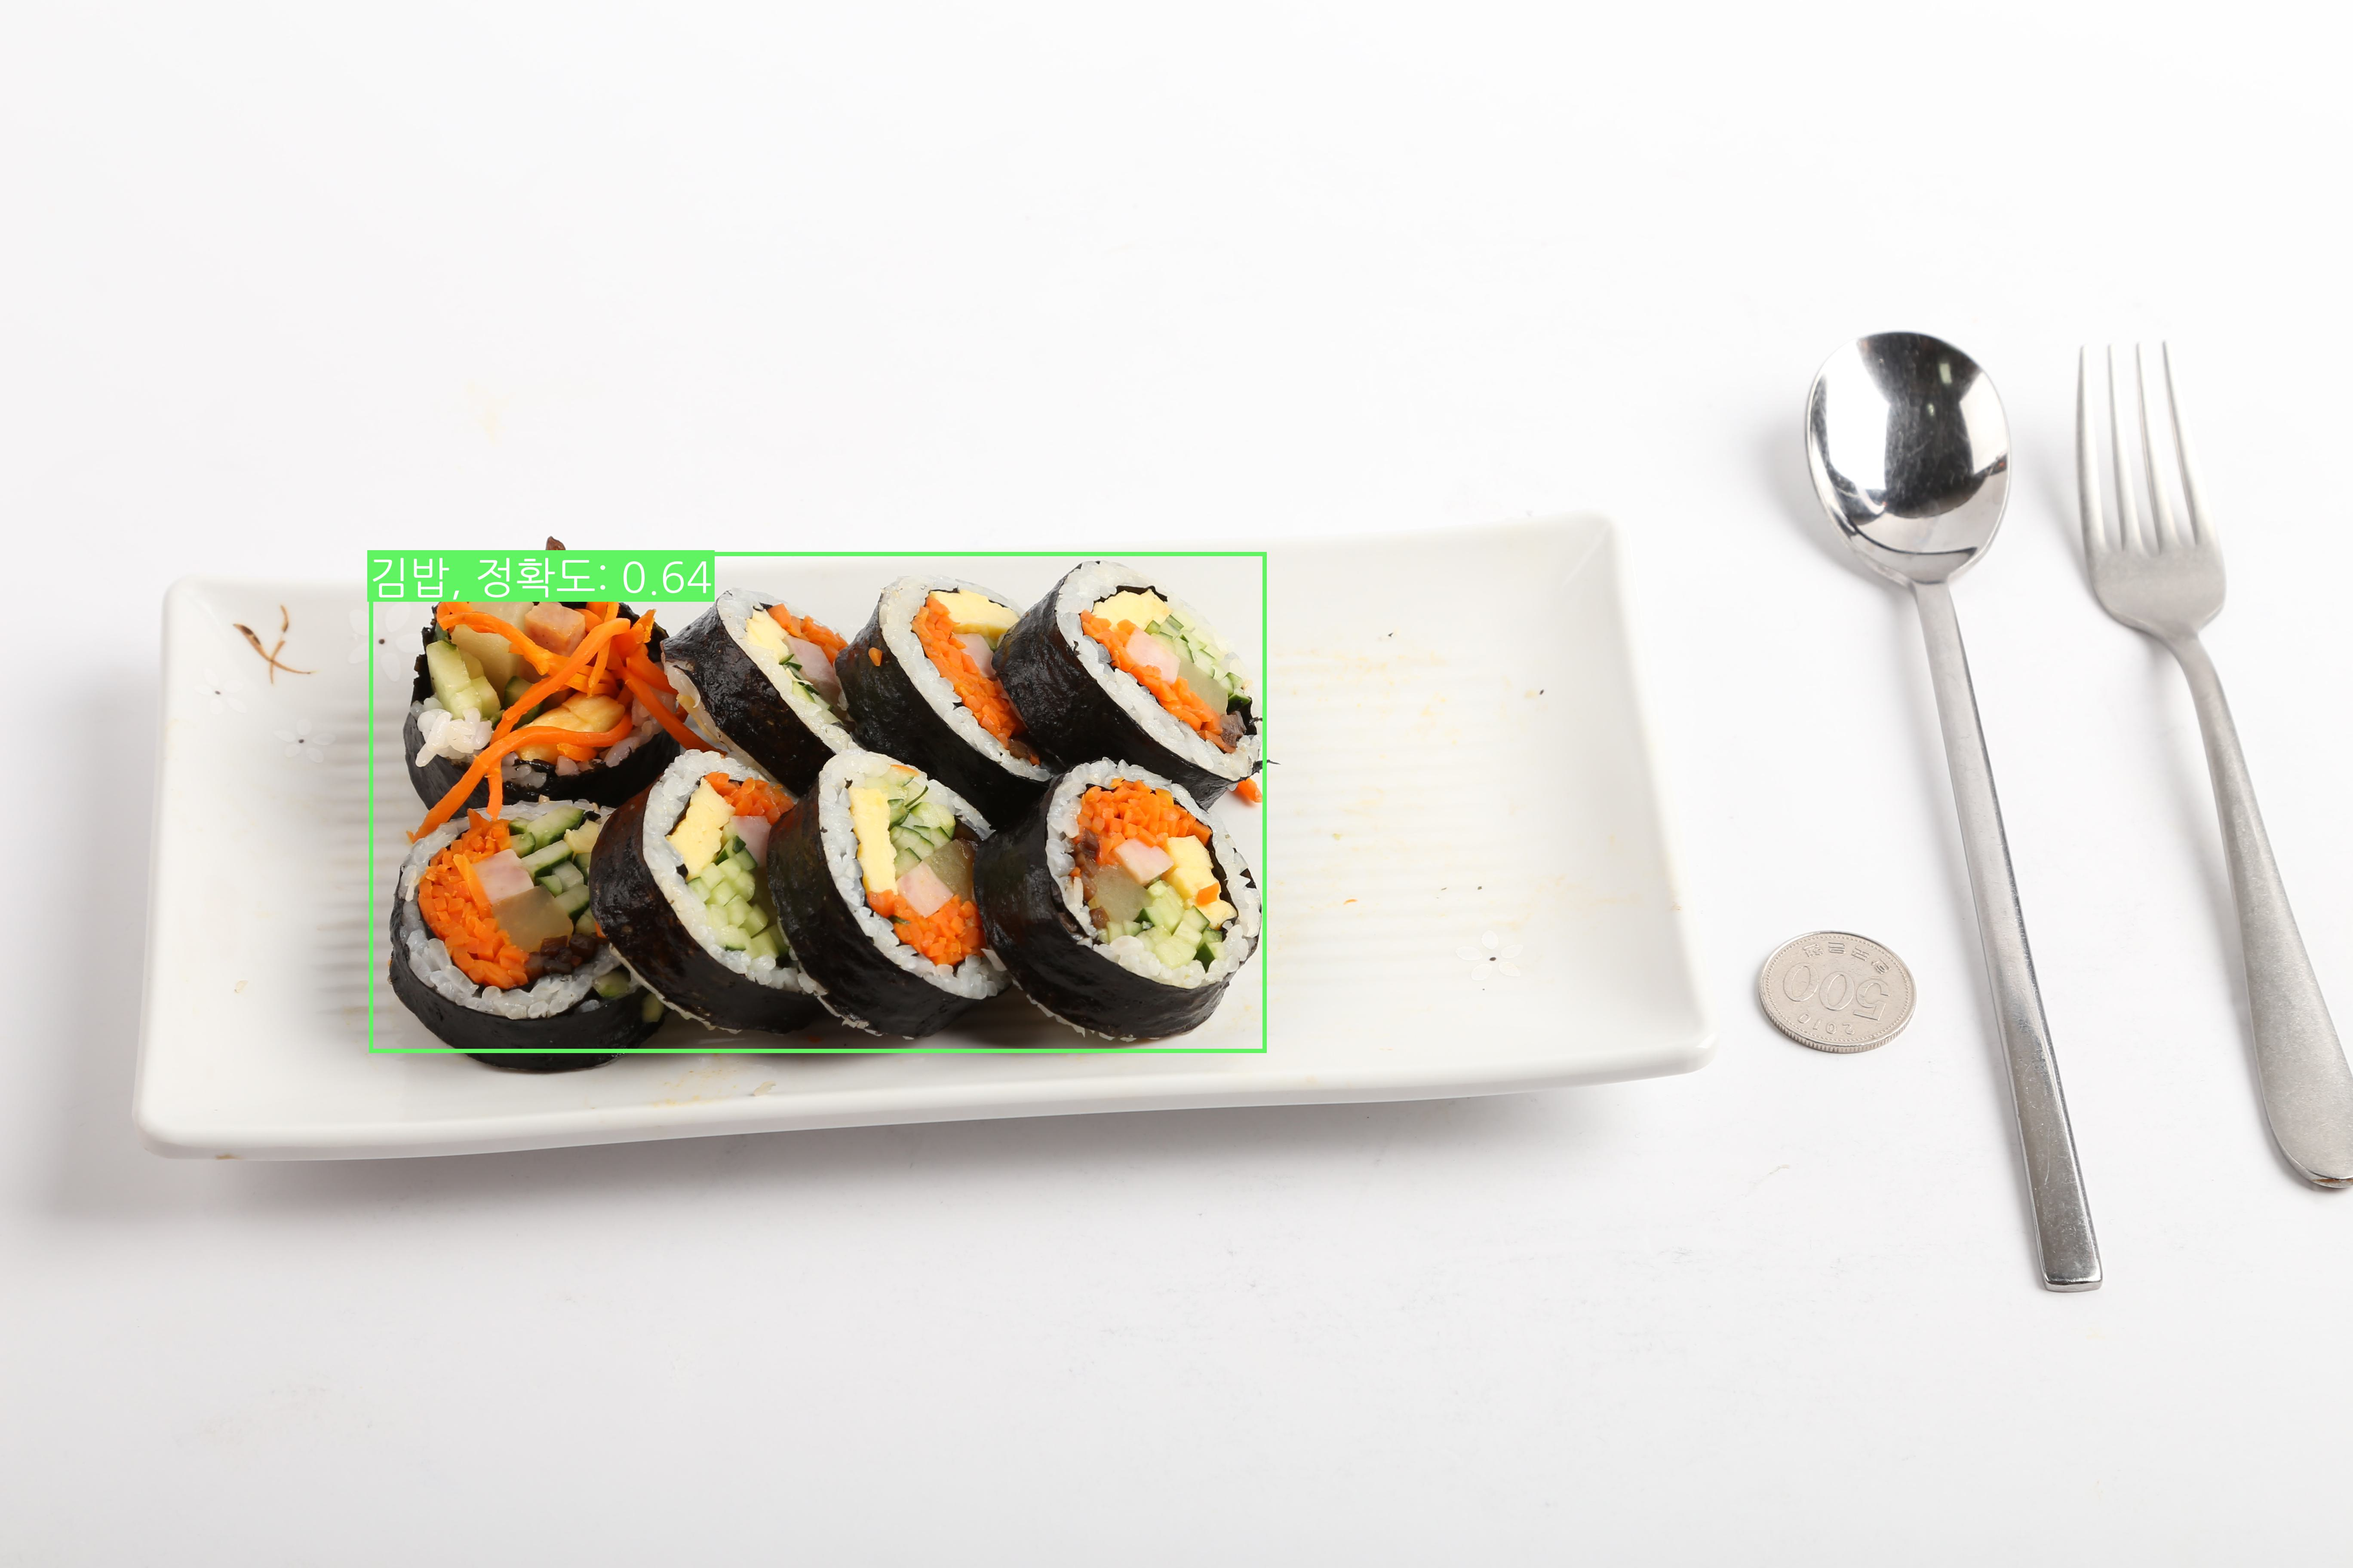
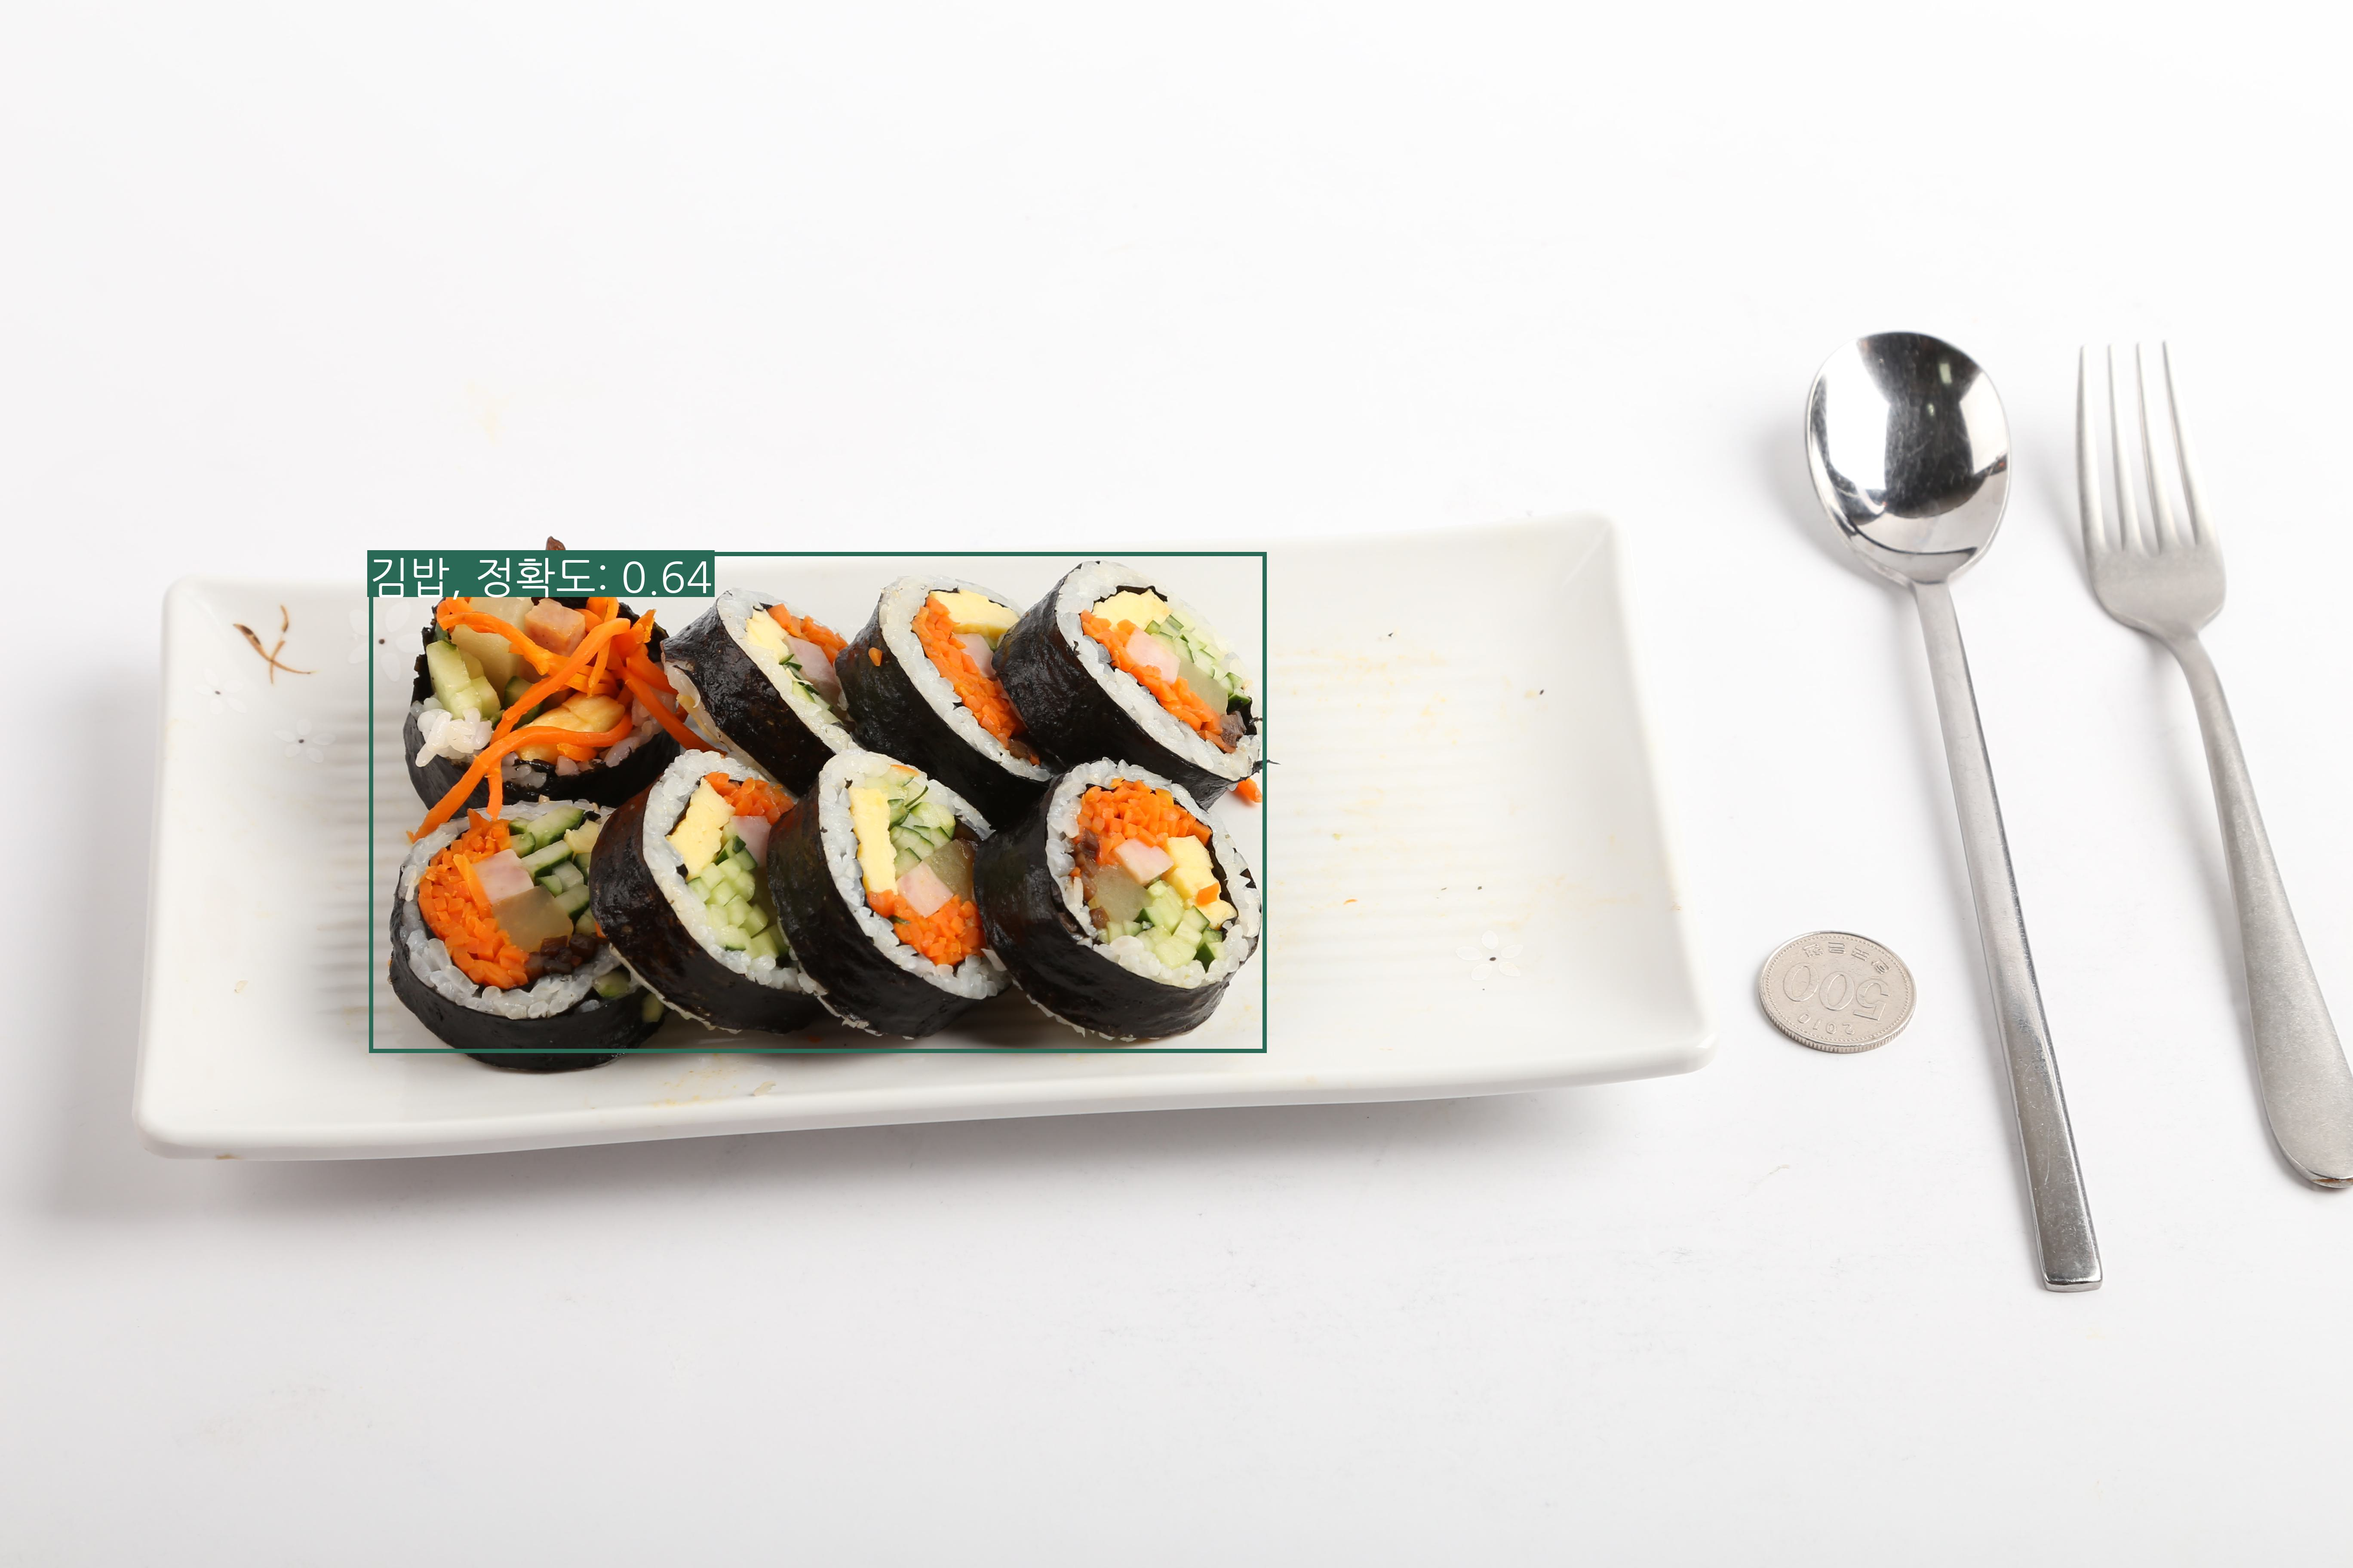
text box size logic 변경

diff --git a/utils/utils.py b/utils/utils.py
@@ -865,13 +865,16 @@ def plot_one_box(x, img, color=None, label=None, line_thickness=None):
     draw = ImageDraw.Draw(img_pil)
 
     # 레이블의 텍스트 크기를 계산합니다.
-    text_size = draw.textsize(label, font=font)
+    text_length = draw.textlength(label, font=font)
     # 텍스트 주변의 여백을 설정합니다.
     text_padding = 4
 
+    # 텍스트 배경의 높이를 계산합니다.
+    text_height = tl * 10
+
     # 텍스트 배경의 좌표를 계산하여 그립니다.
     text_background_pos = [text_pos[0] - text_padding, text_pos[1] - text_padding,
-                            text_pos[0] + text_size[0] + text_padding, text_pos[1] + text_size[1] + text_padding]
+                            text_pos[0] + text_length + text_padding, text_pos[1] + text_height + text_padding]
     draw.rectangle(text_background_pos, fill=color)
 
     # 바운딩 박스를 그립니다.
